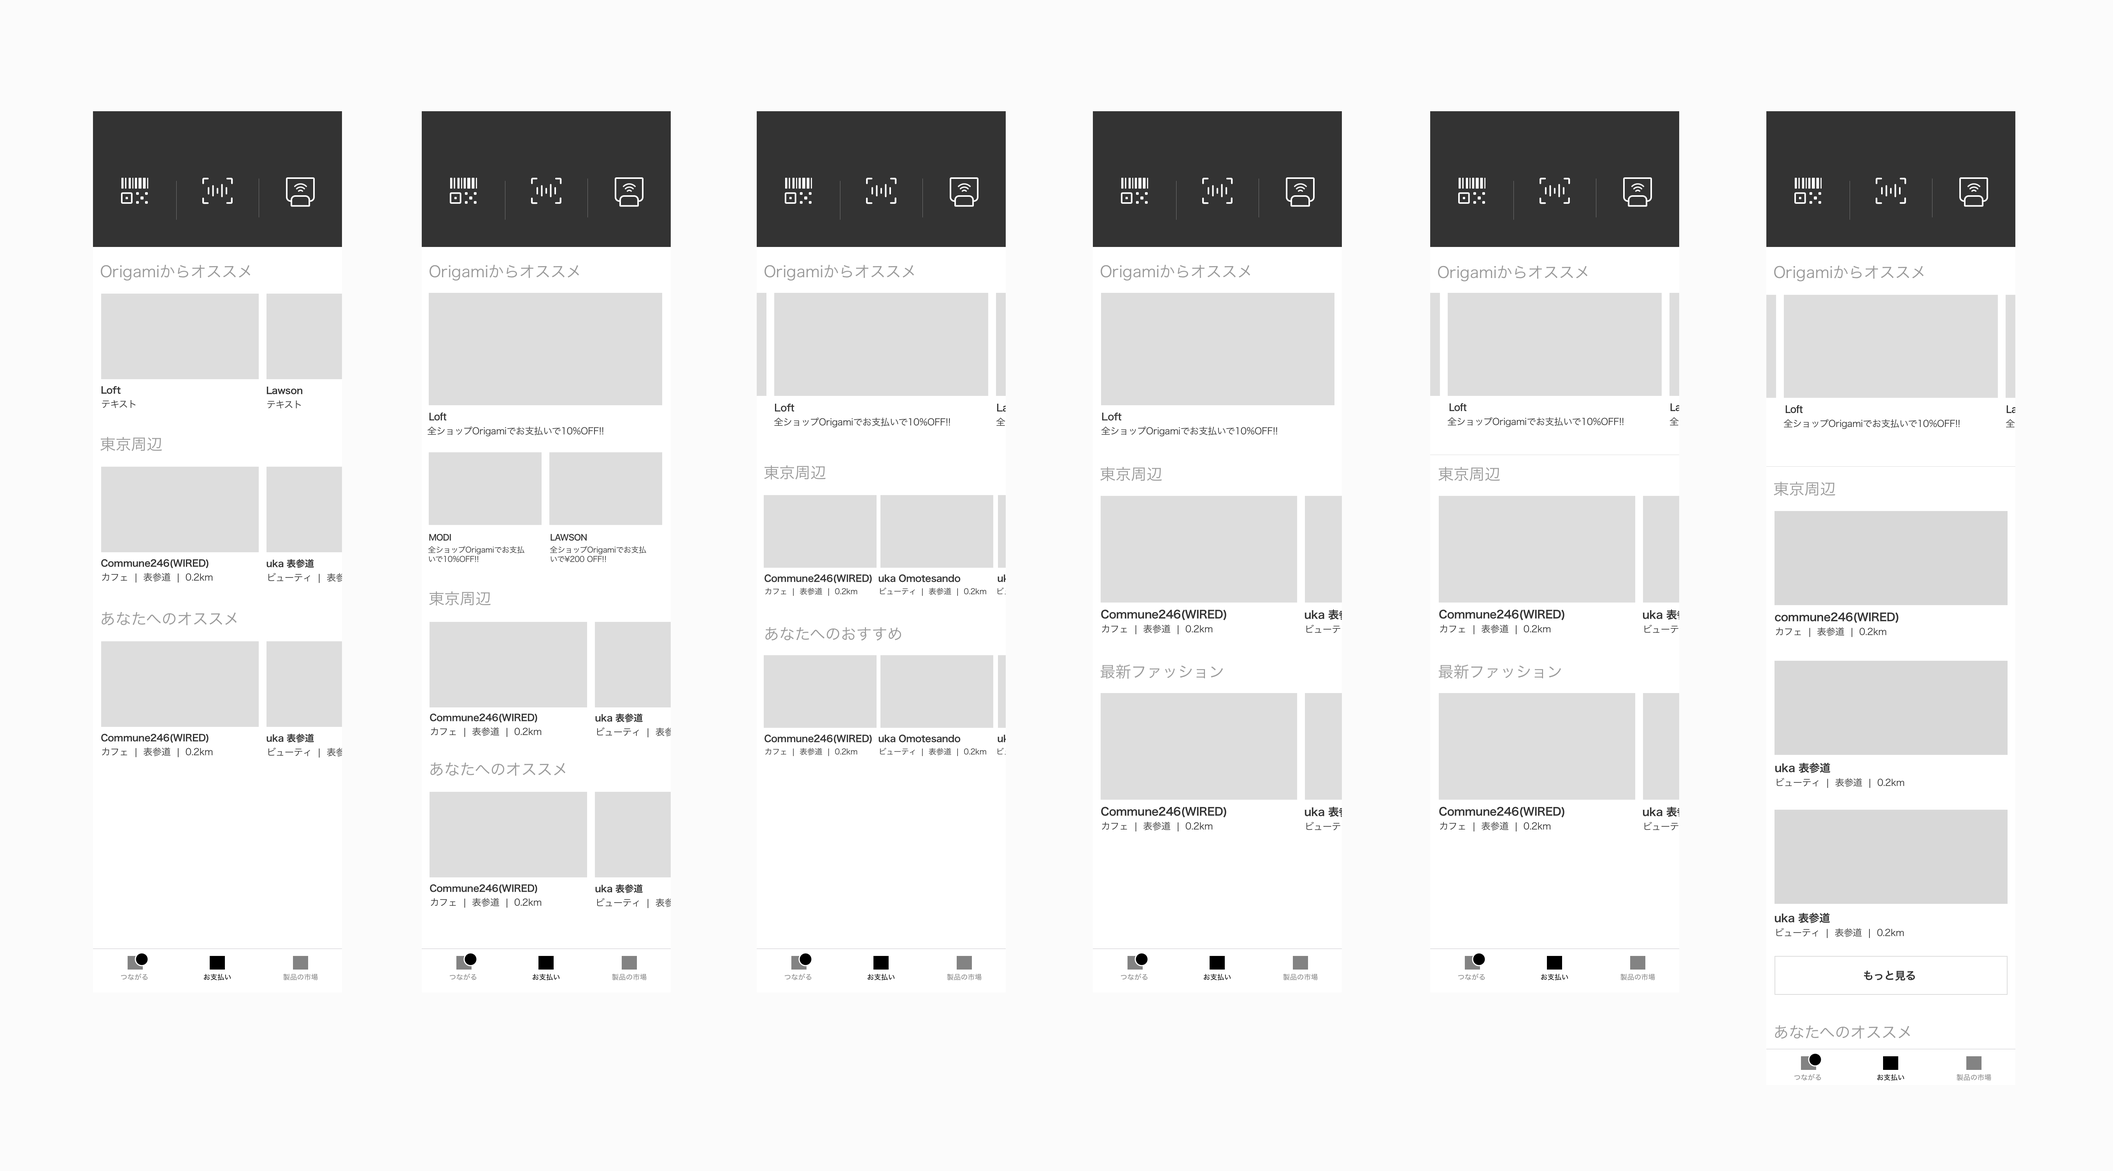
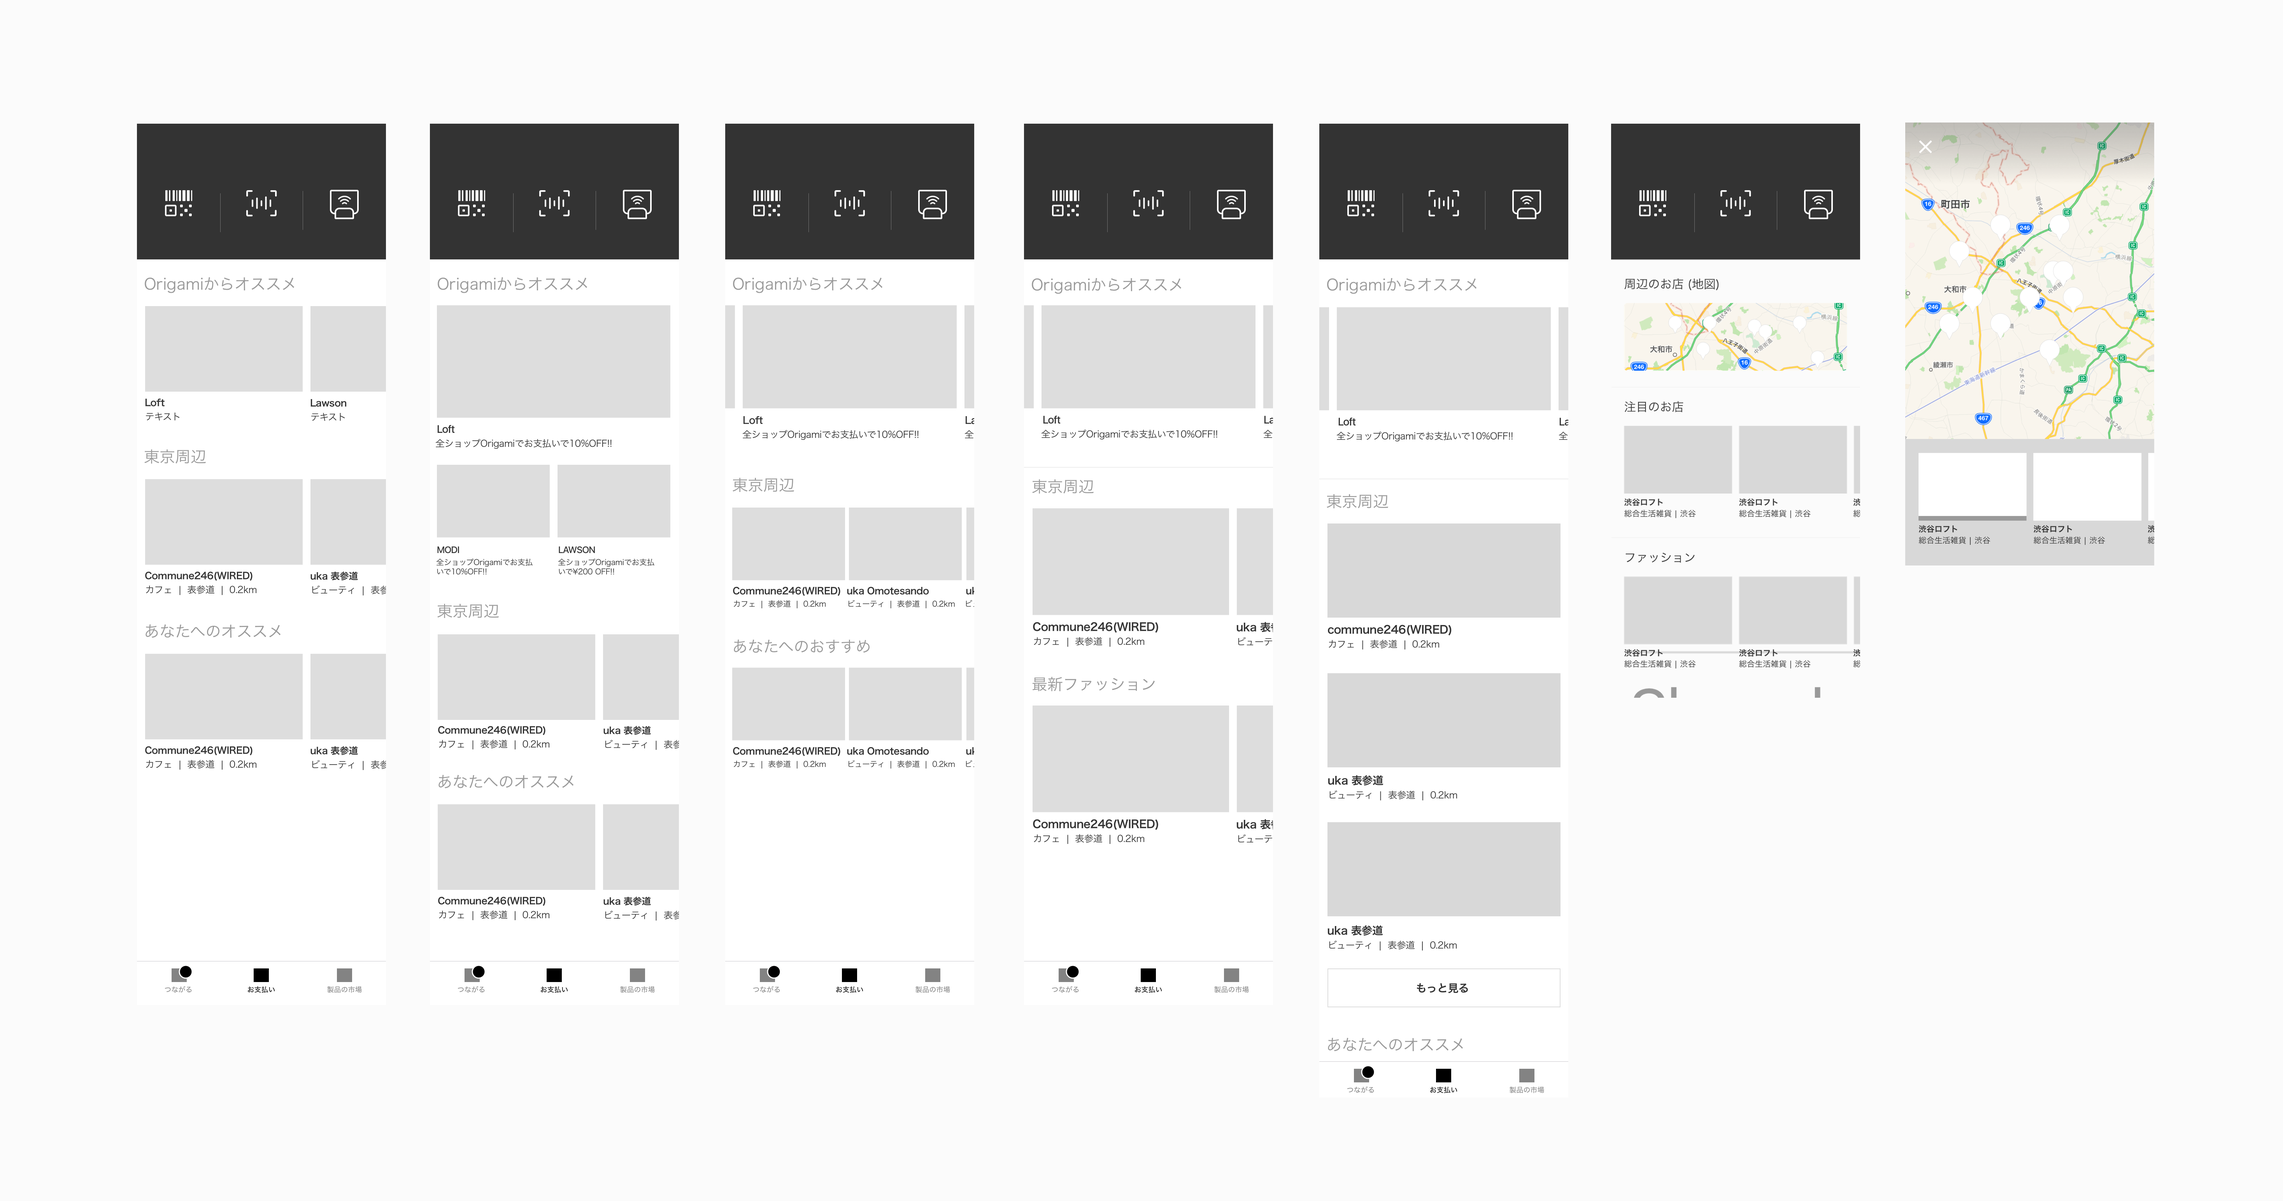
new

diff --git a/onboarding.html b/onboarding.html
@@ -34,34 +34,36 @@
           <div class="text_frame">
             <div class="top_space"><h1>On Boarding Improvement</h1><div class="subtitleWork">Origami・2017</div></div>
             <div class="divider"></div>
-            <p>Origami is a mobile payment service to provide better shopping experience for both online and at physical stores by connecting consumers and shops. Origami currently achieves this by offering discounts and seamless transaction everytime you pay in store. It also offers optimised recommendations for users, therefore it brings more consumers.<br><br>In order to bring more users in the app we decided to improve our on-boarding UX and most importantly solve existing problem. Since our previous design update, we've seen some major dropout rates during the on-boarding process which was caused by email verification signIn/Up as some of the users were failing to receive email on the spot. Those users couldn't signUp/In as there were no fallback way to continue. To tackle this issue we went on to improve the overall UX of the on-boarding flow.</p>
+            <p>Origami is a mobile payment service to provide better shopping experience for both online and at physical stores by connecting consumers and shops. Origami currently achieves this by offering discounts and seamless transaction everytime you pay in store. It also offers optimised recommendations for users, therefore it brings more consumers.<br><br>In order to bring more users in the app we decided to improve our on-boarding UX and most importantly solve existing problem. Since our previous design update, we've seen some major dropout rates during the on-boarding process. To tackle this issue we went on to improve the overall UX of the on-boarding flow.</p>
+          </div>
+
+          <div class="text_frame">
+            <h2>Old design / Problem</h2>
+            <p>With our current way to signup or signin the verification code method is used in order to make onboarding smooth and faster without typing or deciding the password. After seeing the data and testing with users, we found that some of the email goes into junk mail and some also entering wrong address which resulted in not being able to receive verification code. Those users couldn't signup as there were no fallback way to continue.</p>
+          </div>
+          <div class="image_frame">
+            <img class="full" src="works_img/onboarding/old.png">
+          </div>
+
+          <div class="text_frame">
             <h2>Product Goal:</h2>
               <ul class="dot">
                 <li>Origami has two different aspects which are online shopping and shopping at the physical stores. Whichever you are intending to use whether you are at physical store or starting out at home, on-boarding experience should work for any situations.</li>
-                <li>Make sure that nothing stops you from on-boarding.</li>
                 <li>Completing the on-boarding process should be super easy and fast.</li>
               </ul>
+          </div>
+
+          <div class="text_frame">
             <h2>KPI:</h2>
-            <p>Reduce 20% of the dropout rate per monthly.</p>
+            <p>To measure success of the product we monitored how much we can reduce 15% of the daily dropout rate.</p>
           </div>
 
           <div class="text_frame">
-            <h2>Old design</h2>
-            <p>In the old version we found out that the entrance of the onboarding was confusing for the first time user as it doesn't have sign up button and only provides either Pay-in-store-now or login. It was completely missing out for those who are trying to sign up not inside a store. Another problem is that there was no fallback if a user failed to receive email verification code (approx 20% fail /momth). Instead of using the password, this verification code signup/login method was previously chosen in order to make onboarding smooth and faster.</p>
-          </div>
-
-          <div class="text_frame">
-            <h2>Wireframe / UX / Research</h2>
+            <h2>Wireframe / UX</h2>
             <p><i><b>Defining main onboarding cases</b></i><br><br>Our main two usecases were either people signing up at the store or not at the store. When they are at the store they are mostly trying to make a payment using Origami app. When they are not at the store we can assume that they came across with the app and trying it out where ever they are. We needed to take these into account and come up with an onboarding experience that provides best experience for both situations. </p>
           </div>
           <div class="image_frame">
             <img class="full" src="works_img/onboarding/ux.jpg">
-          </div>
-          <div class="text_frame">
-            <p><i><b>Research on Facebook SDK. User account without email address</b></i><br><br>In order to reduce the dropout rate with the email verification we decided to use Facebook signup as the alternative option to create an account. We also looked into what would be the ideal solution if user doesn't have an email address with their Facebook account as Origami required email for providing the secure payment transaction. We looked into many other apps and analysed the best approach to this problem. The result was that most of the services takes you to the original email address input page and continue by using the usual email signup which seemed to be the ideal solution. Other approach include showing error dialog or some can signup without an email.</p>
-          </div>
-          <div class="image_frame">
-            <img class="full" src="works_img/onboarding/research1.jpg">
           </div>
 
           <div class="text_frame">
@@ -74,11 +76,16 @@
 
           <div class="text_frame">
             <h2>Outcome</h2>
-            <p></p>
+            <p>In the end, our final outcome was designed to solve the problem where we saw major drop-outs while retaining the existing on-boarding flow for fast and smooth signup/signin. We decided that using the Facebook login for the initial iteration works the best to verify whether fallback option works or not and then we could consider more options in the future releases. We worked in a collaborative environment with engineers, data analysts and product manager to create thoughtful product decisions. We also actively seek out feedback from users and admins to stay in touch with how people are using the product day-to-day.</p>
           </div>
           <div class="image_frame">
-            <img class="full" src="works_img/onboarding/.jpg">
+            <img class="full" src="works_img/onboarding/final.png">
           </div>
+          <div class="image_frame">
+            <img class="full" src="works_img/onboarding/spec.png">
+          </div>
+
+
 
 
         </content>

diff --git a/storediscover.html b/storediscover.html
@@ -43,13 +43,13 @@
                 <li>Provide many types of content so that we can learn which content is more useful over time. We can use this knowledge to then build a better shop discovery feature (once we have greater shop volume) as we will know which stores resinate with people the most.</li>
               </ul>
             <h2>KPI:</h2>
-            <p>Increase transaction volume through store discovery. To measure this we looked at the number of Unique Store Transactions per user(Number of transactions made at different stores per user) which means it should increase the number of unique stores visited per user.</p>
+            <p>To measure it's success, we simply looked at the elevation of transactions made at different stores per user(Unique transaction per user).</p>
           </div>
 
 
           <div class="text_frame">
             <h2>Wireframe & UX</h2>
-            <p></p>
+            <p>In order to define our UX we first thought about the user story, how people actually discover stores through our app and until they reach into stores.</p>
           </div>
           <div class="image_frame">
             <img class="full" src="works_img/discover/ux.png">
@@ -57,10 +57,10 @@
 
           <div class="text_frame">
             <h2>Exploration</h2>
-            <p><i>Early web experiment that didn't work</i><br><br>It turns out that we couldn't provide best content with this design as it only shows one type of category in single view and takes an effort to switch between categories. Verticle list view could show more stores at once, however with the existing store volume it was not the design that worked. Through internal testing and interviewing people outside we also found that list view with the text heavy information only works when people are looking for something more specific but less likely to work when browsing for the first time.</p>
+            <p><i>Early web experiment that didn't work</i><br><br>Through testing and interviewing with people, it turns out that we couldn't provide best content with the initial experiment for two main reasons. First reason is that it only shows one type of category in a single view and the friction to switch between the categories. Second reason is that the list view with text heavy content works better when people are looking for something more specific but less likely to work when browsing for the first time.</p>
           </div>
           <div class="image_frame">
-            <img class="full" src="works_img/discover/explore1.jpg">
+            <img class="full" src="works_img/discover/explore1.png">
           </div>
           <div class="text_frame">
             <p>Quick web prototype that we made with using real store information API.</p>
@@ -71,13 +71,10 @@
             </video>
           </div>
           <div class="text_frame">
-            <p>UI & UX brainstorming<br><br>Learning from prior experiment with a quick web prototype we decided to explore more with an interface that's able to show as many categories as possible and less text but more images to make it intriguing. This way we can curate and focus on the high quality content in a single page. Our intension was to make this feature as effortless as possible while showing the most valuable content for our users.</p>
+            <p>UI & UX brainstorming<br><br>Learning from prior experiment we decided to explore more with an interface that's able to show as many categories as possible and less text but more images to make it intriguing. This way we can curate and focus on the high quality content in a single page. Our intension was to make this feature as effortless as possible while showing the most valuable content for our users. We explored alot with different layouts and interactions including map, list, side scroll and alot more in order to figure out the best way to show our content.</p>
           </div>
           <div class="image_frame">
             <img class="full" src="works_img/discover/explore2.jpg">
-          </div>
-          <div class="text_frame">
-            <p>Some of the UI exploration we made through many critiques.</p>
           </div>
           <div class="image_frame">
             <img class="full" src="works_img/discover/explore3.png">
@@ -85,7 +82,8 @@
 
           <div class="text_frame">
             <h2>Outcome</h2>
-            <p>We decided it made most sense to make each sections corousel to show various categories in the single view so that it shows few most interesting content. As people have different preferences and interests, we also used cobination of geo-location and data from users such as viewed stores, Male/Female and purchased history to tailor content for respective users. We've also decided to emphasize well established brands in order to show brands that people are more familiar with.</p>
+            <p><i><b>Store discovery content</b></i><br><br>We decided it made most sense to show contents in the corousel UI as it enabled us to show various categories in a single view. As people have different preferences and interests, we also used cobination of geo-location and data from users such as viewed stores, Male/Female and purchased history to tailor content for respective users.</p>
+            <p><i><b>Navigation</b></i><br><br>We also combined all payment related features and the store discovery in the first tab for the initial release as we wanted to make our app more focused on the payment experience. This way it enabled us to educate our users about the payment feature as well as the available stores nearby.</p>
           </div>
           <div class="image_frame">
             <img class="left" src="works_img/discover/final1.png">
@@ -93,15 +91,19 @@
               <source src="works_img/discover/fullplay.mp4" type="video/mp4">
             </video>
           </div>
-
-          <div class="text_frame">
+          <br><br>
+          <div class="image_frame">
+            <img class="full" src="works_img/discover/final3.png">
+          </div>
+          <div class="spacer"></div>
+          <!--div class="text_frame">
             <h2>Specification</h2>
             <p>We maintained aspect ratio in order to make consistant proportion throughout various devices.</p>
           </div>
           <div class="image_frame">
             <img class="full" src="works_img/discover/moduleMeasurement.png">
             <img class="full" src="works_img/discover/fullSpec.png">
-          </div>
+          </div-->
 
         </content>
 

diff --git a/stores.html b/stores.html
@@ -34,17 +34,16 @@
           <div class="text_frame">
             <div class="top_space"><h1>Local store profiles</h1><div class="subtitleWork">Origami・2016</div></div>
             <div class="divider"></div>
-            <p>Along with the <a class="underline" href="storediscover.html">Store discovery project</a>, we worked on the Store profile to help people discover and visit interesting stores.</p>
+            <p>Along with the <a class="underline" href="storediscover.html">Store discovery project</a>, we worked on Store profile to help people discover and learn more about each stores.</p>
             <h2>Product Goal:</h2>
               <ul class="dot">
                 <li>One of our core value lies in the discount we offer, so make sure its intuitive.</li>
                 <li>Design a scalable system that can support various content so it can scale.</li>
-                <li>Make finding stores easy.</li>
+                <li>Make finding stores easy and fun.</li>
                 <li>Provide informations that can help people find out about the stores they don't know about.</li>
               </ul>
             <h2>KPI:</h2>
-            <p>Focus on creating more transaction through the store profile. Measure number of impressions on each profile to learn what resonates with user's the most.</p>
-            <br>
+            <p>Increase transaction volume through the store profile. Measure number of impressions on each profile to learn what resonates with user's the most.</p>
           </div>
 
           <!--div class="text_frame">
@@ -54,11 +53,10 @@
 
           <div class="text_frame">
             <h2>Exploration</h2>
-            <p>As our aim is to provide better deal and experience for our users, our target audiences were the people who cared about these offers and deals. With having specific target audience and our objective through the product we began considering many things. What is the most important things to show? what information do we need? where should the Map and photos be shown? or should they even have a map?. Here is some of the high fidelity exploration we made through many critiques.</p>
+            <p>As our aim is to provide better deal and experience for our users, our target audiences were the people who cared about these offers and deals. With having specific target audience and our objective through the product we began considering many things. What is the most important things to show? what information do we need? where should the Map and photos be shown? or should they even have a map?. Here is some of the exploration we made through many critiques.</p>
           </div>
           <div class="image_frame">
-            <img class="full" src="works_img/stores/explore1.jpg">
-            <img class="full" src="works_img/stores/explore2.jpg">
+            <img class="full" src="works_img/stores/explore1.png">
           </div>
 
           <div class="text_frame">
@@ -71,14 +69,18 @@
               <source src="works_img/stores/fullplay.mp4" type="video/mp4">
             </video>
           </div>
+          <!--div class="image_frame">
+            <img class="full" src="works_img/stores/final2.png">
+          </div-->
+          <div class="spacer"></div>
 
-          <div class="text_frame">
+          <!--div class="text_frame">
             <h2>Specification</h2>
             <p></p>
           </div>
           <div class="image_frame">
             <img class="full" src="works_img/stores/storesMeasurement.png">
-          </div>
+          </div-->
 
         </content>
 

diff --git a/index.html b/index.html
@@ -49,7 +49,7 @@
 
         <div class="portfolio_title">On Boarding</div>
         <div class="subtitle">Origami・2017</div>
-        <div class="portfolio_see"><a href="">Coming soon</a></div>
+        <div class="portfolio_see"><a href=".html">Coming soon</a></div>
         <div class="portfolio_obj">
           <div class="divider_sm"></div>
           <video controls autoplay loop style="margin-bottom: 100px; margin-top: 35px;" controls muted>
@@ -92,16 +92,6 @@
 
 
         <div class="spacer"></div>
-
-        <!--div class="portfolio_title">GQ iPad app</div>
-        <div class="subtitle">Condé Nast UK GQ Competition・2013</div>
-        <div class="portfolio_see"><a href="gq.html">Read More</a></div>
-        <div class="portfolio_obj_wide">
-          <div class="divider_sm"></div>
-          <img src="works_img/gq.png">
-        </div>
-
-        <div class="spacer"></div-->
 
 
 

diff --git a/base.css b/base.css
@@ -82,7 +82,7 @@ video::-webkit-media-controls {
 	margin-bottom: 60px;
 }
 .underline{
-	border-bottom: 1px solid #fff;
+	border-bottom: 1px solid #000;
 	padding-bottom: 1px;
 }
 .divider_sm{
@@ -339,7 +339,7 @@ header{
 	margin-top: 60px;
 }
 .cover_discover{
-	background-image: url("img/cover_discover.jpg");
+	background-image: url("img/cover_discover.png");
 	background-size: cover;
 	background-position: center center;
 	width: 100%;
